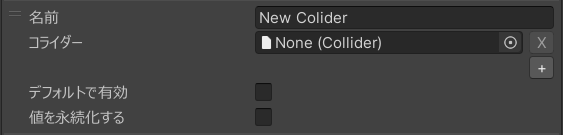
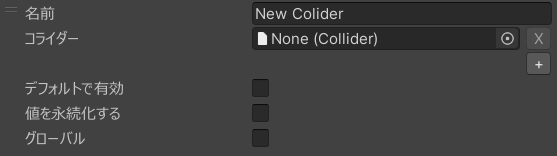
docs: ドキュメントを更新

diff --git a/pages/docs/wim-modules/settings/switch.md b/pages/docs/wim-modules/settings/switch.md
@@ -42,6 +42,13 @@ title: スイッチモジュール
 #### 値を永続化する
 オブジェクトの有効状態を永続化するかどうかを設定します。
 
+::: info
+グローバルが有効な場合は永続化設定が行えません (強制的に無効になります)。
+:::
+
+#### グローバル
+オブジェクトの有効状態を同期するかどうかを設定します。  
+
 ### トランスフォーム {#transform}
 指定したオブジェクトの位置、回転、スケールをスライダーで操作できます。  
 挙動や仕様については[Transformの仕様について](#transform-spec)をご覧ください。
@@ -62,6 +69,13 @@ title: スイッチモジュール
 
 #### 値を永続化する
 スライダーの値を永続化するかどうかを設定します。
+
+::: info
+グローバルが有効な場合は永続化設定が行えません (強制的に無効になります)。
+:::
+
+#### グローバル
+スライダーの値を同期するかどうかを設定します。  
 
 #### Positionを有効にする
 対象となるオブジェクトのTransformのPositionを操作するかどうかを設定します。
@@ -101,6 +115,13 @@ X, Y, Zの値は相対値で設定してください。
 #### 値を永続化する
 コライダーの有効状態を永続化するかどうかを設定します。
 
+::: info
+グローバルが有効な場合は永続化設定が行えません (強制的に無効になります)。
+:::
+
+#### グローバル
+コライダーの有効状態を同期するかどうかを設定します。  
+
 ### トリガー {#trigger}
 指定したUdonBehaviourに対して`SendCustomEvent`を実行することができます。  
 
@@ -111,6 +132,9 @@ X, Y, Zの値は相対値で設定してください。
 
 #### 名前を非表示にする
 トリガーボタン上部に表示される名前を非表示にすることができます。  
+
+#### グローバル
+トリガーボタンが押された時に同期 (=他のユーザーの環境でもトリガー) するかどうかを設定します。  
 
 #### ボタンのラベル名
 トリガーボタンに表示されるラベル名を設定します。  

diff --git a/pages/docs/wim-modules/changelog/ext-vol1.md b/pages/docs/wim-modules/changelog/ext-vol1.md
@@ -4,6 +4,18 @@ title: WIM 拡張モジュール Vol.1 | 更新履歴
 
 # 更新履歴 (WIM 拡張モジュール Vol.1)
 
+## v1.7.0
+`2025/10/13`
+- Feat: スイッチモジュールのスイッチなどをグローバルにできるように  
+  - 「スイッチ」「コライダー」「トランスフォーム」「トリガー」の同期に対応しました  
+  - 「スイッチ」「コライダー」「トランスフォーム」はあとから参加したユーザー(LateJoiner)にも値が同期されます  
+  - 詳しくは[スイッチモジュール](../settings/switch)の各項目をご覧ください。  
+
+::: warning 重要なおしらせ
+ワールド統合メニュー本体をv1.3.1以降に更新してからご利用ください。  
+v1.3.0以前の場合、同期が正しく行われない可能性があります。
+:::
+
 ## v1.6.0
 `2025/06/07`  
 - Feat: スイッチモジュールに「トリガー」機能を実装

diff --git a/pages/docs/wim-core/changelog.md b/pages/docs/wim-core/changelog.md
@@ -4,6 +4,11 @@ title: 更新履歴
 
 # 更新履歴
 
+## v1.3.1
+`2025/10/11`
+- Feat: [開発者向け] モジュール向け機能を強化
+  - モジュールの初期化時にcontent内のobjectを1フレームだけActivateできるように
+
 ## v1.3.0
 `2025/04/10`  
 - Feat: クイックメニューを呼び出す手を変更できるように
